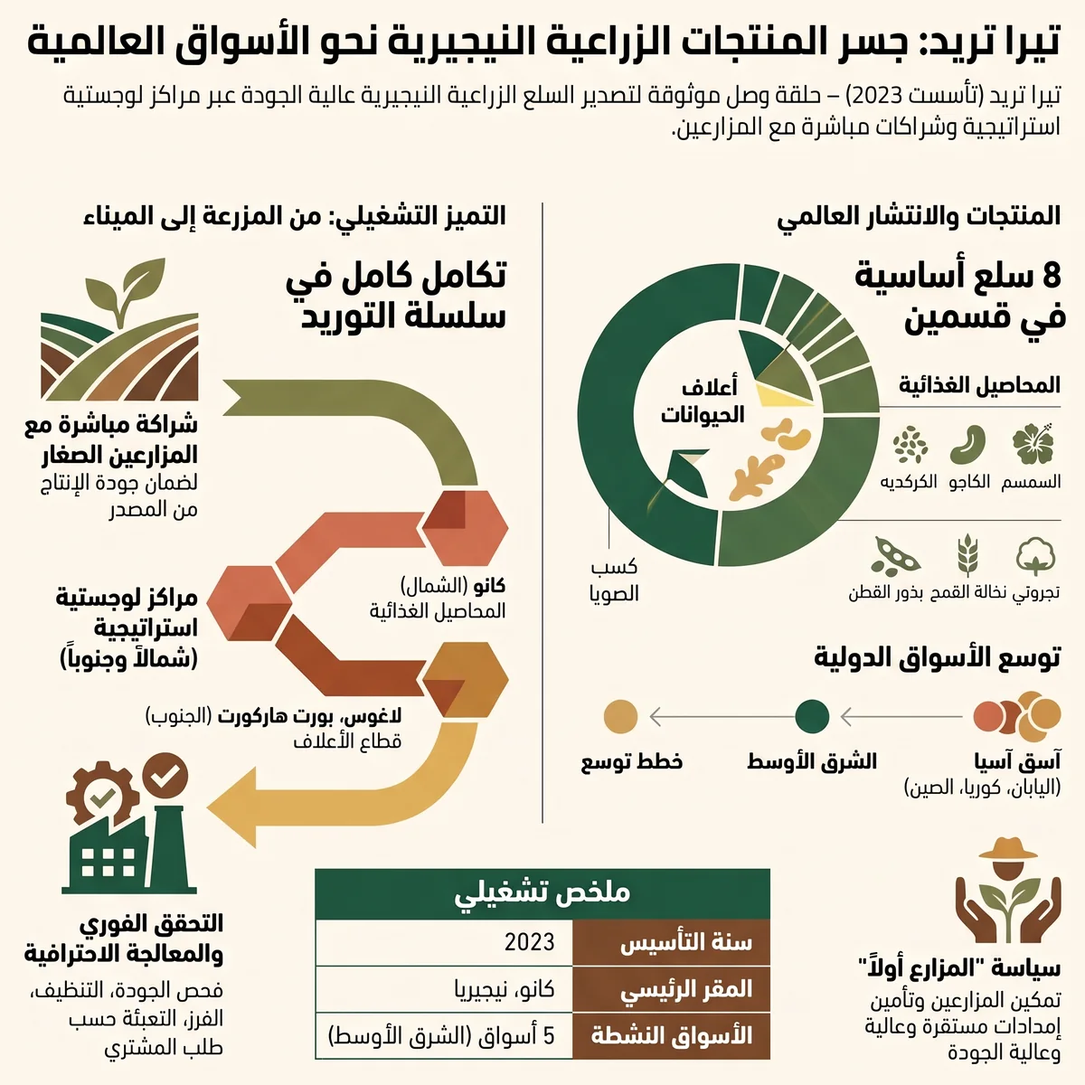
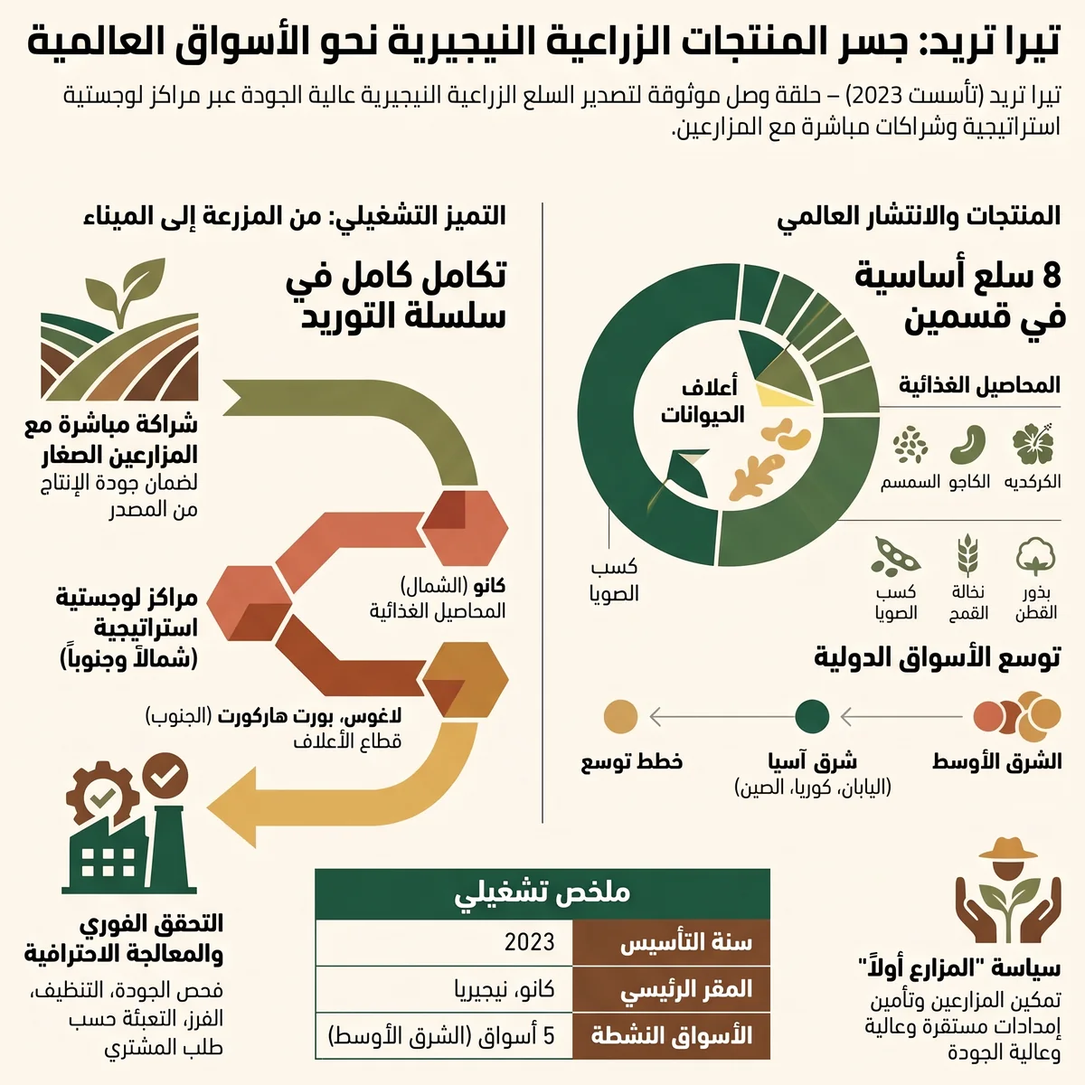
TerraTrade: infographic text corrections, WhatsApp squircle fix, footer keeps only the privacy notice
- Infographics (tools/fix_infographics.py, applied by images.py --infographics):
  Arabic, rebuilt from the sheet's own glyphs: «آسق آسيا» → «شرق آسيا» and the timeline now runs
  Middle East → East Asia → expansion; garbled «تجروتي» feed row → «بذور القطن» / «نخالة القمح» /
  «كسب الصويا» under their icons; sesame / hibiscus labels un-swapped.
  English, set in Roboto (the sheet's face, matched by pixel diff): the "oliseeds" paragraph lists all
  eight commodities; "Active Middle East & East Asia routes" → "Middle East today, East Asia next".
- Floating WhatsApp (and every chunky button): the reset's svg { max-width: 100% } squeezed the
  squircle layer, so the face was narrower than the button and off-centre from the icon; lifted.
  New smoke check: each face matches its button's width and centre.
- Footer: the language link and the pause switch are removed; "Privacy notice" is underlined.
  A pause saved by the old switch is cleared so no visitor stays frozen; reduced motion still applies.
- 393/393 checks pass.

Claude-Session: https://claude.ai/code/session_01HKngwx74mGYhV61d7ZfDLP

diff --git a/terratrade/public/assets/css/site.css b/terratrade/public/assets/css/site.css
@@ -501,7 +501,8 @@
   .foot-contact a:hover { color: var(--txt); }
   .foot-bottom { position: relative; z-index: 1; display: flex; justify-content: space-between; flex-wrap: wrap; gap: 10px; margin-top: 34px; padding-top: 18px; font-size: 12.5px; color: var(--muted); }
   .foot-bottom::before { content: ''; position: absolute; top: 0; inset-inline: 24px; border-top: 1px solid var(--card-bd); }
-  .foot-meta a:hover { color: var(--txt); }
+  .foot-meta a { text-decoration: underline; text-underline-offset: 3px; text-decoration-thickness: 1px; }
+  .foot-meta a:hover { color: var(--txt); text-decoration-color: var(--accent); }
   .foot-word { font-family: var(--disp); font-weight: 700; font-size: clamp(64px, 17vw, 250px); line-height: .8; letter-spacing: -.05em; text-align: center; margin: 26px 0 -.12em;
     color: transparent; -webkit-text-stroke: 1px color-mix(in srgb, var(--accent) 38%, transparent); user-select: none; white-space: nowrap; pointer-events: none; }
   @media (max-width: 760px) { .foot-grid { grid-template-columns: 1fr; } }
@@ -635,12 +636,6 @@
   .hud a span { inset-inline-start: 28px; }
 
   /* "Pause animations" (WCAG 2.2.2) lives in the footer line; aria-pressed carries the state, the icon follows it */
-  .foot-motion { display: inline-flex; align-items: center; gap: 6px; padding: 4px 2px; border: 0; background: none; color: inherit; font: inherit; cursor: pointer; text-decoration: underline; text-underline-offset: 3px; text-decoration-color: color-mix(in srgb, currentColor 40%, transparent); }
-  .foot-motion:hover { color: var(--accent); }
-  .foot-motion svg { width: 14px; height: 14px; fill: none; stroke: currentColor; stroke-width: 2; stroke-linecap: round; stroke-linejoin: round; }
-  .foot-motion .i-play { display: none; fill: currentColor; stroke: none; }
-  html.paused .foot-motion .i-play { display: block; }
-  html.paused .foot-motion .i-pause { display: none; }
   .icon-btn .i-pause, .icon-btn .i-play { fill: none; stroke: currentColor; stroke-width: 2.2; stroke-linecap: round; stroke-linejoin: round; }
   .icon-btn .i-play { fill: currentColor; stroke-width: 1.4; }
   @media (max-width: 380px) { .nav-tools { gap: 5px; } .icon-btn, .burger { width: 36px; height: 36px; } }

diff --git a/terratrade/public/assets/js/core/env.js b/terratrade/public/assets/js/core/env.js
@@ -12,14 +12,14 @@ if (REDUCED) html.classList.add('reduced');
 // Follow an OS-level change without a reload (effects that already ran keep their final state).
 RM.addEventListener?.('change', e => { REDUCED = e.matches; html.classList.toggle('reduced', e.matches); window.dispatchEvent(new CustomEvent('tt:motion')); });
 
-/** User "pause animations" switch (WCAG 2.2.2). Freezes CSS animations (html.paused) and JS loops. */
+/** Animation pause state: html.paused freezes CSS animations and JS loops check isPaused(). The footer switch that set
+ *  it was removed at the client's request (reduced motion still applies); a pause it saved on an earlier visit is
+ *  cleared, so nobody is left with a frozen page and no switch to undo it. */
 let paused = false;
-try { paused = localStorage.getItem('tt-motion') === 'paused'; } catch (e) { /* storage blocked */ }
-html.classList.toggle('paused', paused);
+try { localStorage.removeItem('tt-motion'); } catch (e) { /* storage blocked */ }
 export const isPaused = () => paused;
 export function setPaused(v) {
   paused = !!v; html.classList.toggle('paused', paused);
-  try { localStorage.setItem('tt-motion', paused ? 'paused' : 'on'); } catch (e) { /* ignore */ }
   window.dispatchEvent(new CustomEvent('tt:motion'));
 }
 

diff --git a/terratrade/public/assets/js/main.js b/terratrade/public/assets/js/main.js
@@ -4,7 +4,7 @@
 // anyone uses the nav (otherwise in-page links would land in the wrong place).
 import { run, $ } from './core/env.js';
 import { loadDict } from './core/i18n.js';
-import { theme, motionToggle } from './core/theme.js';
+import { theme } from './core/theme.js';
 import { nav, progress, sections } from './ui/nav.js';
 import { typed, heroLetters, morph, aboutLit, counters, marquee } from './ui/textfx.js';
 import { smooth, reveal, depth, tilt, magnetic, spotlight, manifesto, stem } from './ui/motion.js';
@@ -17,7 +17,7 @@ import { rfq, copyMail } from './ui/rfq.js';
 document.getElementById('hbScene')?.pauseAnimations?.();
 await loadDict().catch(e => console.error('[i18n]', e));
 
-run([reveal, smooth, nav, progress, sections, theme, motionToggle, heroLetters, typed, morph, counters, marquee,
+run([reveal, smooth, nav, progress, sections, theme, heroLetters, typed, morph, counters, marquee,
   depth, products, spec, tilt, magnetic, aboutLit, manifesto, stem, spotlight, copyMail, rfq]);
 
 const scene = (sel, loader) => loader().then(m => m.default($(sel))).catch(e => console.error('[scene]', sel, e));

diff --git a/terratrade/public/ar/index.html b/terratrade/public/ar/index.html
@@ -765,7 +765,7 @@
   </div>
   <div class="container foot-bottom">
     <span><span data-i18n="foot.rights">© 2026 تيرا تريد. جميع الحقوق محفوظة.</span></span>
-    <span class="foot-meta"><a href="/ar/privacy/" data-i18n="form.privacy" data-i18n-attr="href=form.privacyHref">إشعار الخصوصية</a> · <a href="/" hreflang="en" lang="en" data-i18n="nav.lang" data-i18n-attr="href=nav.langHref;hreflang=nav.langCode;lang=nav.langCode">English</a> · <button class="foot-motion" id="motionToggle" type="button" aria-pressed="false"><svg class="i-pause" viewBox="0 0 24 24" aria-hidden="true"><path d="M9 6v12M15 6v12" /></svg><svg class="i-play" viewBox="0 0 24 24" aria-hidden="true"><path d="M8 5.5v13l10.5-6.5z" /></svg><span data-i18n="nav.motion">إيقاف الحركة مؤقتاً</span></button></span>
+    <span class="foot-meta"><a href="/ar/privacy/" data-i18n="form.privacy" data-i18n-attr="href=form.privacyHref">إشعار الخصوصية</a></span>
   </div>
   <p class="foot-word" aria-hidden="true">TerraTrade</p>
 </footer>

diff --git a/terratrade/public/index.html b/terratrade/public/index.html
@@ -769,7 +769,7 @@
   </div>
   <div class="container foot-bottom">
     <span><span data-i18n="foot.rights">© 2026 TerraTrade. All rights reserved.</span></span>
-    <span class="foot-meta"><a href="/privacy/" data-i18n="form.privacy" data-i18n-attr="href=form.privacyHref">Privacy notice</a> · <a href="/ar/" hreflang="ar" lang="ar" data-i18n="nav.lang" data-i18n-attr="href=nav.langHref;hreflang=nav.langCode;lang=nav.langCode">العربية</a> · <button class="foot-motion" id="motionToggle" type="button" aria-pressed="false"><svg class="i-pause" viewBox="0 0 24 24" aria-hidden="true"><path d="M9 6v12M15 6v12"/></svg><svg class="i-play" viewBox="0 0 24 24" aria-hidden="true"><path d="M8 5.5v13l10.5-6.5z"/></svg><span data-i18n="nav.motion">Pause animations</span></button></span>
+    <span class="foot-meta"><a href="/privacy/" data-i18n="form.privacy" data-i18n-attr="href=form.privacyHref">Privacy notice</a></span>
   </div>
   <p class="foot-word" aria-hidden="true">TerraTrade</p>
 </footer>

diff --git a/terratrade/public/assets/css/fx.css b/terratrade/public/assets/css/fx.css
@@ -276,7 +276,9 @@
     border-radius: 16px; font-weight: 800; letter-spacing: .02em;
   }
   .btn.is-chunky, .btn.is-chunky:hover { background: none; border: 0; box-shadow: none; color: var(--sq-ink); }
-  .is-chunky > .sq { position: absolute; z-index: -1; overflow: visible; pointer-events: none; }
+  /* the layer is deliberately wider than its button (the extrusion hangs 5 units past each side): lift the reset's
+     svg { max-width: 100% } cap, which squeezed the face narrower than the button and off-centre from its label */
+  .is-chunky > .sq { position: absolute; z-index: -1; overflow: visible; pointer-events: none; max-width: none; }
   /* the live label rides the face; its backing matches the face so contrast tools read the real pair */
   .is-chunky > :not(.sq) { translate: 0 var(--sq-dy, 0px); }
   .is-chunky > span { background: var(--sq-hb); border-radius: 6px; box-shadow: 0 0 0 3px var(--sq-hb); }

diff --git a/terratrade/public/assets/js/core/theme.js b/terratrade/public/assets/js/core/theme.js
@@ -1,7 +1,7 @@
 // Light (default) / dark "night harvest" theme with the portfolio's circular view-transition reveal.
 // Persisted in localStorage('tt-theme'); the inline head script applies it before first paint.
 // Also wires the "Pause animations" switch (WCAG 2.2.2).
-import { html, REDUCED, $, isPaused, setPaused } from './env.js';
+import { html, REDUCED, $ } from './env.js';
 import { t } from './i18n.js';
 
 const meta = () => document.querySelector('meta[name="theme-color"]');
@@ -31,11 +31,4 @@ export function theme() {
       vt.ready?.catch(() => {}); vt.finished?.catch(() => {});
     } else go();
   });
-}
-
-export function motionToggle() {
-  const btn = $('#motionToggle'); if (!btn) return;
-  const sync = () => { btn.setAttribute('aria-pressed', String(isPaused())); };
-  sync();
-  btn.addEventListener('click', () => { setPaused(!isPaused()); sync(); });
 }

diff --git a/terratrade/public/assets/css/base.css b/terratrade/public/assets/css/base.css
@@ -120,7 +120,7 @@
     .photo-tag, .map-note, .mline .alt, .season-cap, .spec-cap, .hero-chip, .vnum, .snum, .acc-n, .idx, .face .fnum, .hud a span) { letter-spacing: 0 !important; text-transform: none !important; }
 }
 
-/* "Pause animations" toggle (WCAG 2.2.2): freezes every CSS animation; JS loops check html.paused */
+/* animation pause state (core/env.js): freezes every CSS animation; JS loops check html.paused */
 html.paused *, html.paused *::before, html.paused *::after { animation-play-state: paused !important; }
 
 @media (forced-colors: active) {

diff --git a/terratrade/public/assets/js/i18n/ar.js b/terratrade/public/assets/js/i18n/ar.js
@@ -24,7 +24,6 @@ export default {
   "nav.langHref": "/",
   "nav.langCode": "en",
   "nav.cta": "اطلب عرض سعر",
-  "nav.motion": "إيقاف الحركة مؤقتاً",
   "brand.name": "تيرا تريد",
   "nav.themeDark": "التبديل إلى الوضع الداكن",
   "nav.themeLight": "التبديل إلى الوضع الفاتح",

diff --git a/terratrade/dev/tools/fix_infographics.py b/terratrade/dev/tools/fix_infographics.py
@@ -1,0 +1,156 @@
+"""Corrects the text errors in the client's generated infographics; tools/images.py applies it before resizing.
+
+Arabic: every corrected word already exists elsewhere on the sheet, in the generator's own face, so the fix moves
+those original glyphs (as anti-aliased ink masks on a cleaned patch) rather than re-typesetting them:
+  - «آسق آسيا» becomes «شرق آسيا» («شرق» is cut from «الشرق» just after the lam, where the sheen starts), and it
+    trades places with «الشرق الأوسط», so the timeline reads Middle East (active) → East Asia → expansion plans,
+    as the sheet's own table and the site say;
+  - food row: «السمسم» and «الكركديه» sat under each other's icons; swapped;
+  - feed row: the garbled «تجروتي» and a misplaced «بذور القطن» become «بذور القطن» / «نخالة القمح» / «كسب الصويا»
+    under the cotton / wheat / soybean-pod icons, in two lines (the chart's own «كسب الصويا» label style).
+English (new wording, typeset in Roboto, the sheet's own face: Regular for body text, Bold for headings, found by
+pixel-matching the original lines, which it re-sets within 1% of their width; size and baseline measured from them):
+  - "Exporting oliseeds ..." (a typo, and five of the eight commodities) lists all eight;
+  - "ACTIVE MIDDLE EAST & EAST ASIA ROUTES" becomes "MIDDLE EAST TODAY, EAST ASIA NEXT" (East Asia is expansion).
+Coordinates are in the 2048 x 2048 originals. Needs Pillow (with raqm) and @fontsource/roboto (a dev dependency).
+Preview: python3 tools/fix_infographics.py  (writes dev/out/infographic-{en,ar}-fixed.png)
+"""
+from pathlib import Path
+from PIL import Image, ImageDraw, ImageFont
+
+ROBOTO = str(Path(__file__).resolve().parent.parent / 'node_modules/@fontsource/roboto/files/roboto-latin-{}-normal.woff2')
+
+
+def bg_of(im, box):
+    """median colour of a 3px ring just outside box: the paper the patch has to match"""
+    l, t, r, b = box
+    ring = [im.getpixel((x, y)) for x in range(l - 3, r + 3, 2) for y in (t - 3, t - 2, b + 1, b + 2)]
+    ring += [im.getpixel((x, y)) for y in range(t, b, 2) for x in (l - 3, l - 2, r + 1, r + 2)]
+    return tuple(sorted(p[i] for p in ring)[len(ring) // 2] for i in range(3))
+
+
+def ink_mask(im, box, bg, ink):
+    """anti-aliased coverage of dark ink over paper, as an L mask"""
+    lb, li = sum(bg) / 3, sum(ink) / 3
+    lut = [max(0, min(255, round(255 * (lb - v) / (lb - li)))) for v in range(256)]
+    return im.crop(box).convert('L').point(lut)
+
+
+def trim(mask):
+    """cut a mask to its ink columns, keeping its rows (so the baseline stays where it was)"""
+    l, _, r, _ = mask.point(lambda v: 255 if v > 60 else 0).getbbox()
+    return mask.crop((l, 0, r, mask.height))
+
+
+def baseline(mask):
+    """Arabic sits on a strong horizontal stroke: the row with the most ink"""
+    rows = [sum(mask.crop((0, y, mask.width, y + 1)).getdata()) for y in range(mask.height)]
+    return rows.index(max(rows))
+
+
+def cover(im, box):
+    col = bg_of(im, box)
+    ImageDraw.Draw(im).rectangle((box[0], box[1], box[2] - 1, box[3] - 1), fill=col)
+
+
+def put(im, mask, x, y, ink):
+    im.paste(Image.new('RGB', mask.size, ink), (round(x), round(y)), mask)
+
+
+def fix_ar(im):
+    im = im.copy()
+    INK = (3, 2, 0)
+    grab = lambda box: trim(ink_mask(im, box, bg_of(im, box), INK))
+
+    # --- markets timeline: labels band y 1390-1446, the parenthetical band y 1446-1492 ---
+    LB, PB = (1390, 1446), (1446, 1492)
+    sharq_full = grab((1523, LB[0], 1627, LB[1]))    # «الشرق»
+    awsat = grab((1390, LB[0], 1515, LB[1]))
+    sharq = grab((1523, LB[0], 1602, LB[1]))          # «ال» (alef + lam, x 1602-1627) left behind
+    asia = grab((1798, LB[0], 1873, LB[1]))
+    paren = grab((1670, PB[0], 1960, PB[1]))
+    cover(im, (1385, LB[0], 1966, LB[1]))
+    cover(im, (1664, PB[0], 1966, PB[1]))
+    gap = 13
+    # right slot, right-aligned to the column edge like the original: «الشرق الأوسط»
+    x = 1958 - sharq_full.width
+    put(im, sharq_full, x, LB[0], INK)
+    put(im, awsat, x - gap - awsat.width, LB[0], INK)
+    # middle slot, centred under the green dot (x 1510): «شرق آسيا» and its country list
+    w = asia.width + gap + sharq.width
+    put(im, sharq, 1510 + w / 2 - sharq.width, LB[0], INK)
+    put(im, asia, 1510 - w / 2, LB[0], INK)
+    put(im, paren, 1510 - paren.width / 2, PB[0], INK)
+
+    # --- food row (band y 894-941): hibiscus icon centre x 1906, sesame seeds icon centre x 1686 ---
+    FB = (894, 941)
+    karkade, simsim = grab((1628, FB[0], 1737, FB[1])), grab((1845, FB[0], 1960, FB[1]))
+    cover(im, (1626, FB[0], 1740, FB[1]))
+    cover(im, (1843, FB[0], 1962, FB[1]))
+    put(im, karkade, 1906 - karkade.width / 2, FB[0], INK)
+    put(im, simsim, 1686 - simsim.width / 2, FB[0], INK)
+
+    # --- feed row (band y 1092-1144) → two lines: cotton x 1912, wheat x 1790, soybean pods x 1660 ---
+    RB = (1092, 1144)
+    words = {k: grab((l, RB[0], r, RB[1])) for k, (l, r) in
+             {'qutn': (1572, 1652), 'buthur': (1655, 1711), 'qamh': (1719, 1795), 'nukhala': (1798, 1861)}.items()}
+    base = baseline(words['nukhala'])
+    # «كسب» / «الصويا» from the chart label (drawn a touch larger): scaled to the row's letter height
+    kasb_m, soya_m = ink_mask(im, (1105, 1044, 1202, 1092), bg_of(im, (1105, 1044, 1202, 1092)), INK), \
+        ink_mask(im, (1102, 1094, 1204, 1146), bg_of(im, (1102, 1094, 1204, 1146)), INK)
+    k = alef_height(words['qutn']) / alef_height(trim(soya_m))
+    kasb, soya = (scale(trim(m), k) for m in (kasb_m, soya_m))
+    cover(im, (1566, RB[0], 1964, RB[1]))
+    PITCH = 38
+    for cx, top, bottom in ((1912, words['buthur'], words['qutn']), (1790, words['nukhala'], words['qamh']), (1660, kasb, soya)):
+        for i, m in enumerate((top, bottom)):
+            put(im, m, cx - m.width / 2, RB[0] + base - baseline(m) + i * PITCH, INK)
+    return im
+
+
+def alef_height(mask):
+    """height from the top of the tallest letter (alef / lam) to the baseline"""
+    top = mask.point(lambda v: 255 if v > 60 else 0).getbbox()[1]
+    return baseline(mask) - top
+
+
+def scale(mask, k):
+    return mask.resize((max(1, round(mask.width * k)), max(1, round(mask.height * k))), Image.LANCZOS)
+
+
+def typeset(im, lines, x, base, pitch, weight, size, ink, max_w):
+    """set lines in Roboto from a measured first baseline, one pitch apart"""
+    font = ImageFont.truetype(ROBOTO.format(weight), size)
+    d = ImageDraw.Draw(im)
+    for i, line in enumerate(lines):
+        w = font.getlength(line)
+        assert w <= max_w, f'"{line}" is {w:.0f}px, wider than {max_w}px'
+        d.text((x, base + i * pitch), line, font=font, fill=ink, anchor='ls')
+
+
+def fix_en(im):
+    im = im.copy()
+    # "8 key commodities" paragraph: Regular 29.4px (cap height 22), baselines 805 / 838 (pitch 33) at x 1308;
+    # the orange 8 above ends at y 750, nothing below until the divisions box
+    cover(im, (1300, 778, 1968, 905))
+    typeset(im, ['Oilseeds, food crops and feed ingredients:',
+                 'Sesame, Cashew, Ginger, Hibiscus, Soybean,',
+                 'Soybean Meal, Wheat Bran and Cotton Seed.'], 1308, 805, 33, 400, 29.4, (4, 4, 4), 650)
+    # markets heading: Bold 46.8px (cap height 35), baselines 1817 / 1868 at x 1345; the shapes above end at y 1744,
+    # the text below starts at y 1890
+    cover(im, (1335, 1770, 1968, 1880))
+    typeset(im, ['MIDDLE EAST TODAY,', 'EAST ASIA NEXT'], 1345, 1817, 51, 700, 46.8, (1, 1, 1), 610)
+    return im
+
+
+def fixed(lang, im):
+    return (fix_ar if lang == 'ar' else fix_en)(im.convert('RGB'))
+
+
+if __name__ == '__main__':
+    here = Path(__file__).resolve().parent
+    out = here.parent / 'out'
+    out.mkdir(exist_ok=True)
+    for lang in ('en', 'ar'):
+        fixed(lang, Image.open(here.parent / 'src-assets' / f'infographic-{lang}.png')).save(out / f'infographic-{lang}-fixed.png')
+        print('wrote', out / f'infographic-{lang}-fixed.png')

diff --git a/terratrade/dev/tools/images.py b/terratrade/dev/tools/images.py
@@ -5,6 +5,7 @@ Requires Pillow (pip install pillow). Run: python3 tools/images.py  [--infograph
 """
 from pathlib import Path
 from PIL import Image, ImageOps
+from fix_infographics import fixed
 
 HERE = Path(__file__).resolve().parent
 SRC = HERE.parent / 'src-assets'
@@ -92,7 +93,7 @@ def infographics():
     for old in (OUT / 'infographic').glob('*.webp'):
         old.unlink()
     for lang, f in INFOGRAPHICS.items():
-        im = Image.open(SRC / f).crop(INFOGRAPHIC_CROP).convert('RGB')
+        im = fixed(lang, Image.open(SRC / f)).crop(INFOGRAPHIC_CROP)  # text corrections: tools/fix_infographics.py
         for w in (800, 1200, 1600):
             im.resize((w, round(im.height * w / im.width)), Image.LANCZOS).save(OUT / 'infographic' / f'{lang}-{w}.webp', 'WEBP', quality=84, method=6)
         im.save(OUT / 'infographic' / f'{lang}-full.webp', 'WEBP', quality=84, method=6)

diff --git a/terratrade/README.md b/terratrade/README.md
@@ -11,13 +11,13 @@ The design remixes the [portfolio](../_publish/index.html) design language (glas
 | **Hero** | Split-letter gradient headline, gooey rotating commodity word, fact counters, and a liquid-glass bubble scene (farmer / sesame / hibiscus) with the commodity list orbiting the main bubble ✦ |
 | **Products** | 8 commodities split into 2 divisions, with a filter and character-roll heading. Each card is a 3D flip card ✦: the framed photo turns to reveal "Request a quote" and "Spec sheet". The spec-sheet dialog shows indicative specs, harvest months and packaging, prints, and has "request a quote for this product" |
 | **About** | Scroll-lit paragraph, facts, mission / vision / three core values as zig-zag infographic banners ✦, manifesto scroll-fill |
-| **At a glance** | TerraTrade's own infographic (an English and an Arabic version, one per page), lazy-loaded, opening full size, with a three-point text summary beside it. The generator's corner mark is cropped off in `tools/images.py` |
+| **At a glance** | TerraTrade's own infographic (an English and an Arabic version, one per page), lazy-loaded, opening full size, with a three-point text summary beside it. Its text errors are corrected by `tools/fix_infographics.py` and the generator's corner mark is cropped off in `tools/images.py` |
 | **Operations** | Pinned Nigeria map story: outline draws, Kano sourcing zone, Lagos and Port Harcourt hubs, cargo moving to the ports, then out to export markets |
 | **Process** | Scroll-driven CSS 3D cube: Source → Aggregate → Verify → Process → Pack → Ship |
 | **Why TerraTrade** | Three strengths, plus Farmer First "growing stem" |
 | **Markets** | The portfolio's dot globe, extended with animated great-circle trade routes. Active markets (KSA, UAE, Qatar, Lebanon, Syria) are solid amber; opening markets (Japan, South Korea, China) are dashed green |
 | **Partners** | Partner logo grid |
-| **Site-wide** | Petal cursor ✦ (fine pointers), floating WhatsApp squircle ✦, pause-animations switch, light/dark themes |
+| **Site-wide** | Petal cursor ✦ (fine pointers), floating WhatsApp squircle ✦, light/dark themes. Motion follows the OS reduced-motion setting (the footer pause switch was removed at the client's request) |
 | **How we trade** | Terms, packaging, documents, samples, plus an interactive WebGL harbour-water panel ✦ with the mark on the seabed |
 | **Contact** | Quote form (Netlify Forms, AJAX with no-JS fallback) with a chunky squircle submit ✦, WhatsApp, copy-email, and a draggable liquid-glass business card on the photo ✦ |
 
@@ -69,7 +69,7 @@ Each tool regenerates one kind of asset:
 | `node tools/geo.mjs` | Globe dots and the inline Nigeria map |
 | `node tools/logo.mjs && node tools/logo-check.mjs` | Logo SVGs, checked against the original PNG |
 | `node tools/icons.mjs` | Icon sprite and favicons |
-| `python3 tools/images.py` | WebP sets (needs Pillow, plus the client originals in `dev/src-assets/`). `--infographics` rebuilds only the infographics from `dev/src-assets/infographic-en.png` / `infographic-ar.png`: drop in a corrected 2048 × 2048 PNG and rerun |
+| `python3 tools/images.py` | WebP sets (needs Pillow, plus the client originals in `dev/src-assets/`). `--infographics` rebuilds only the infographics from `dev/src-assets/infographic-en.png` / `infographic-ar.png`, with the text corrections from `tools/fix_infographics.py` (its coordinates fit these two sheets; a regenerated sheet replaces them) |
 | `node tools/og.mjs` | Social preview images |
 
 ## Deploy on Netlify
@@ -93,17 +93,15 @@ Each tool regenerates one kind of asset:
 - [ ] **Arabic.** Native-speaker review of `public/assets/js/i18n/ar.js`, and the Arabic brand name (currently «تيرا تريد»).
 - [ ] **Markets.** Confirm that listing Syria and Lebanon as active markets is intended.
 - [ ] **Privacy notice.** Legal review of `/privacy/`.
-- [ ] **Infographic text.** Worth regenerating before launch:
-  - Arabic: «آسق آسيا» should read «شرق آسيا»; «تجروتي» (in the feed list) is garbled.
-  - English: "oliseeds" should be "oilseeds"; "8 key commodities" lists only five; the heading "Active Middle East & East Asia routes" says East Asia is active, while the site (and the infographic's own line below it) calls it expansion.
+- [x] **Infographic text.** Corrected in `tools/fix_infographics.py` (applied by `tools/images.py --infographics`): English "oliseeds" paragraph now lists all eight commodities, "Active Middle East & East Asia routes" became "Middle East today, East Asia next"; Arabic «آسق آسيا» → «شرق آسيا» (and the timeline now runs Middle East → East Asia), the garbled «تجروتي» feed row and the swapped sesame / hibiscus labels. A regenerated sheet would need its own check.
 
 ## CodePen effects
 
-Each pen is kept as supplied in `dev/pens/<id>/`, adapted to the brand, fonts, i18n, RTL, themes and motion rules, and credited in its code header and in `public/credits.txt`. CSS lives in `assets/css/fx.css` under `[data-fx="…"]`; JS modules are in `assets/js/fx/`, loaded on demand by `fx/registry.js`. All JS runs on the shared loop registry, so it pauses off-screen, with the pause switch, and under reduced motion.
+Each pen is kept as supplied in `dev/pens/<id>/`, adapted to the brand, fonts, i18n, RTL, themes and motion rules, and credited in its code header and in `public/credits.txt`. CSS lives in `assets/css/fx.css` under `[data-fx="…"]`; JS modules are in `assets/js/fx/`, loaded on demand by `fx/registry.js`. All JS runs on the shared loop registry, so it pauses off-screen and under reduced motion.
 
 | Pen | Where | Notes |
 |---|---|---|
-| [designfenix/QwdoddG](https://codepen.io/designfenix/pen/QwdoddG) — Marquee Glass Bubble | Hero visual | The pen's SVG scene (generated from its markup) with TerraTrade photos. The ripple/displacement filters are removed so faces stay sharp. The orbit text is translatable (EN/AR). SMIL is frozen off-screen, when paused and under reduced motion. Pointer parallax on fine pointers. |
+| [designfenix/QwdoddG](https://codepen.io/designfenix/pen/QwdoddG) — Marquee Glass Bubble | Hero visual | The pen's SVG scene (generated from its markup) with TerraTrade photos. The ripple/displacement filters are removed so faces stay sharp. The orbit text is translatable (EN/AR). SMIL is frozen off-screen and under reduced motion. Pointer parallax on fine pointers. |
 | [designfenix/RwKPapa](https://codepen.io/designfenix/pen/RwKPapa) — 3D perspective cards | Product cards | Flips on hover or keyboard focus, mirrored in Arabic. Touch gets front and back stacked. The quote link prefills the form (`source=card:<id>`). |
 | [thebabydino/NLWdwz](https://codepen.io/thebabydino/pen/NLWdwz) — infographic banners | About: mission, vision, values | Brand gradients with contrast-checked ink. Zig-zag on wide screens, stacked on phones. |
 | [Andrew-Fisher/raMZQNe](https://codepen.io/Andrew-Fisher-the-decoder/pen/raMZQNe) — Chunky 3D Buttons | Hero quote, form submit, floating WhatsApp | The SVG squircle is an aria-hidden layer behind the real button, so the label stays live text. The floating button hides over the hero, contact and footer. |
